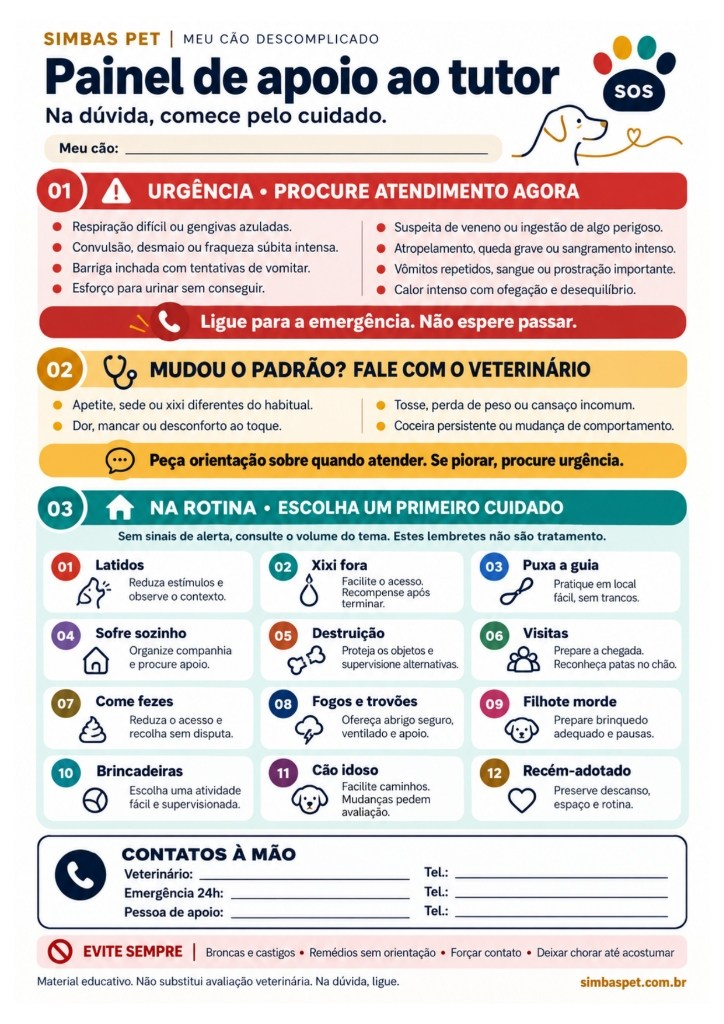
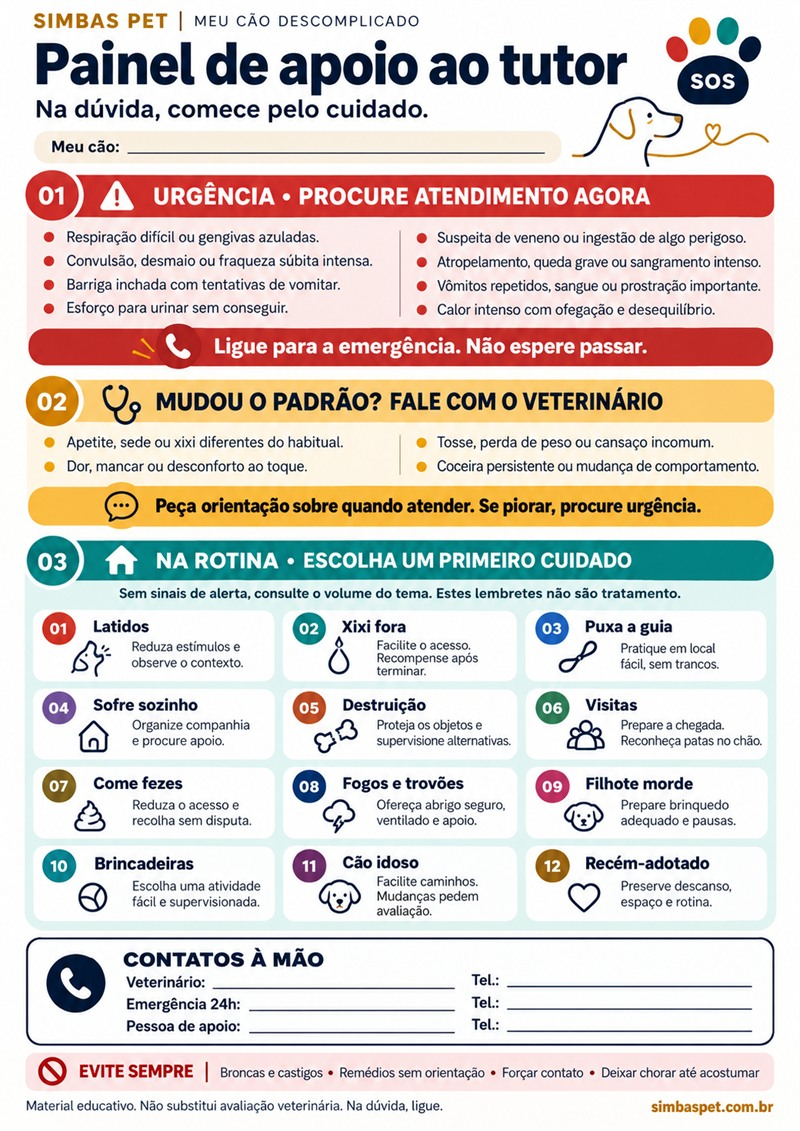
feat: substituir Painel de Apoio pela matriz original de alta definicao do PDF (2110x2982)

diff --git a/index.html b/index.html
@@ -3076,7 +3076,7 @@ footer {
     <div class="painel-apoio-card">
       <div class="painel-apoio-preview">
         <button type="button" data-painel="true" data-zoom="img/painel-apoio-zoom.jpg" data-caption="Painel de Apoio ao Tutor: guia prático com sinais de urgência, quando falar com o veterinário, lembretes dos 12 temas e contatos de emergência" aria-label="Ampliar Painel de Apoio ao Tutor">
-          <img src="img/painel-apoio-novo.jpg" width="724" height="1024" loading="lazy" alt="Painel de Apoio ao Tutor: SOS, urgências e contatos da rotina">
+          <img src="img/painel-apoio-novo.jpg" width="800" height="1131" loading="lazy" alt="Painel de Apoio ao Tutor: SOS, urgências e contatos da rotina">
           <span class="painel-zoom-badge" aria-hidden="true">
             <svg width="18" height="18" viewBox="0 0 24 24" fill="none" stroke="currentColor" stroke-width="2.5"><circle cx="11" cy="11" r="7"/><path d="m20 20-4-4M11 8v6M8 11h6"/></svg>
             <span>Toque para ampliar</span>
